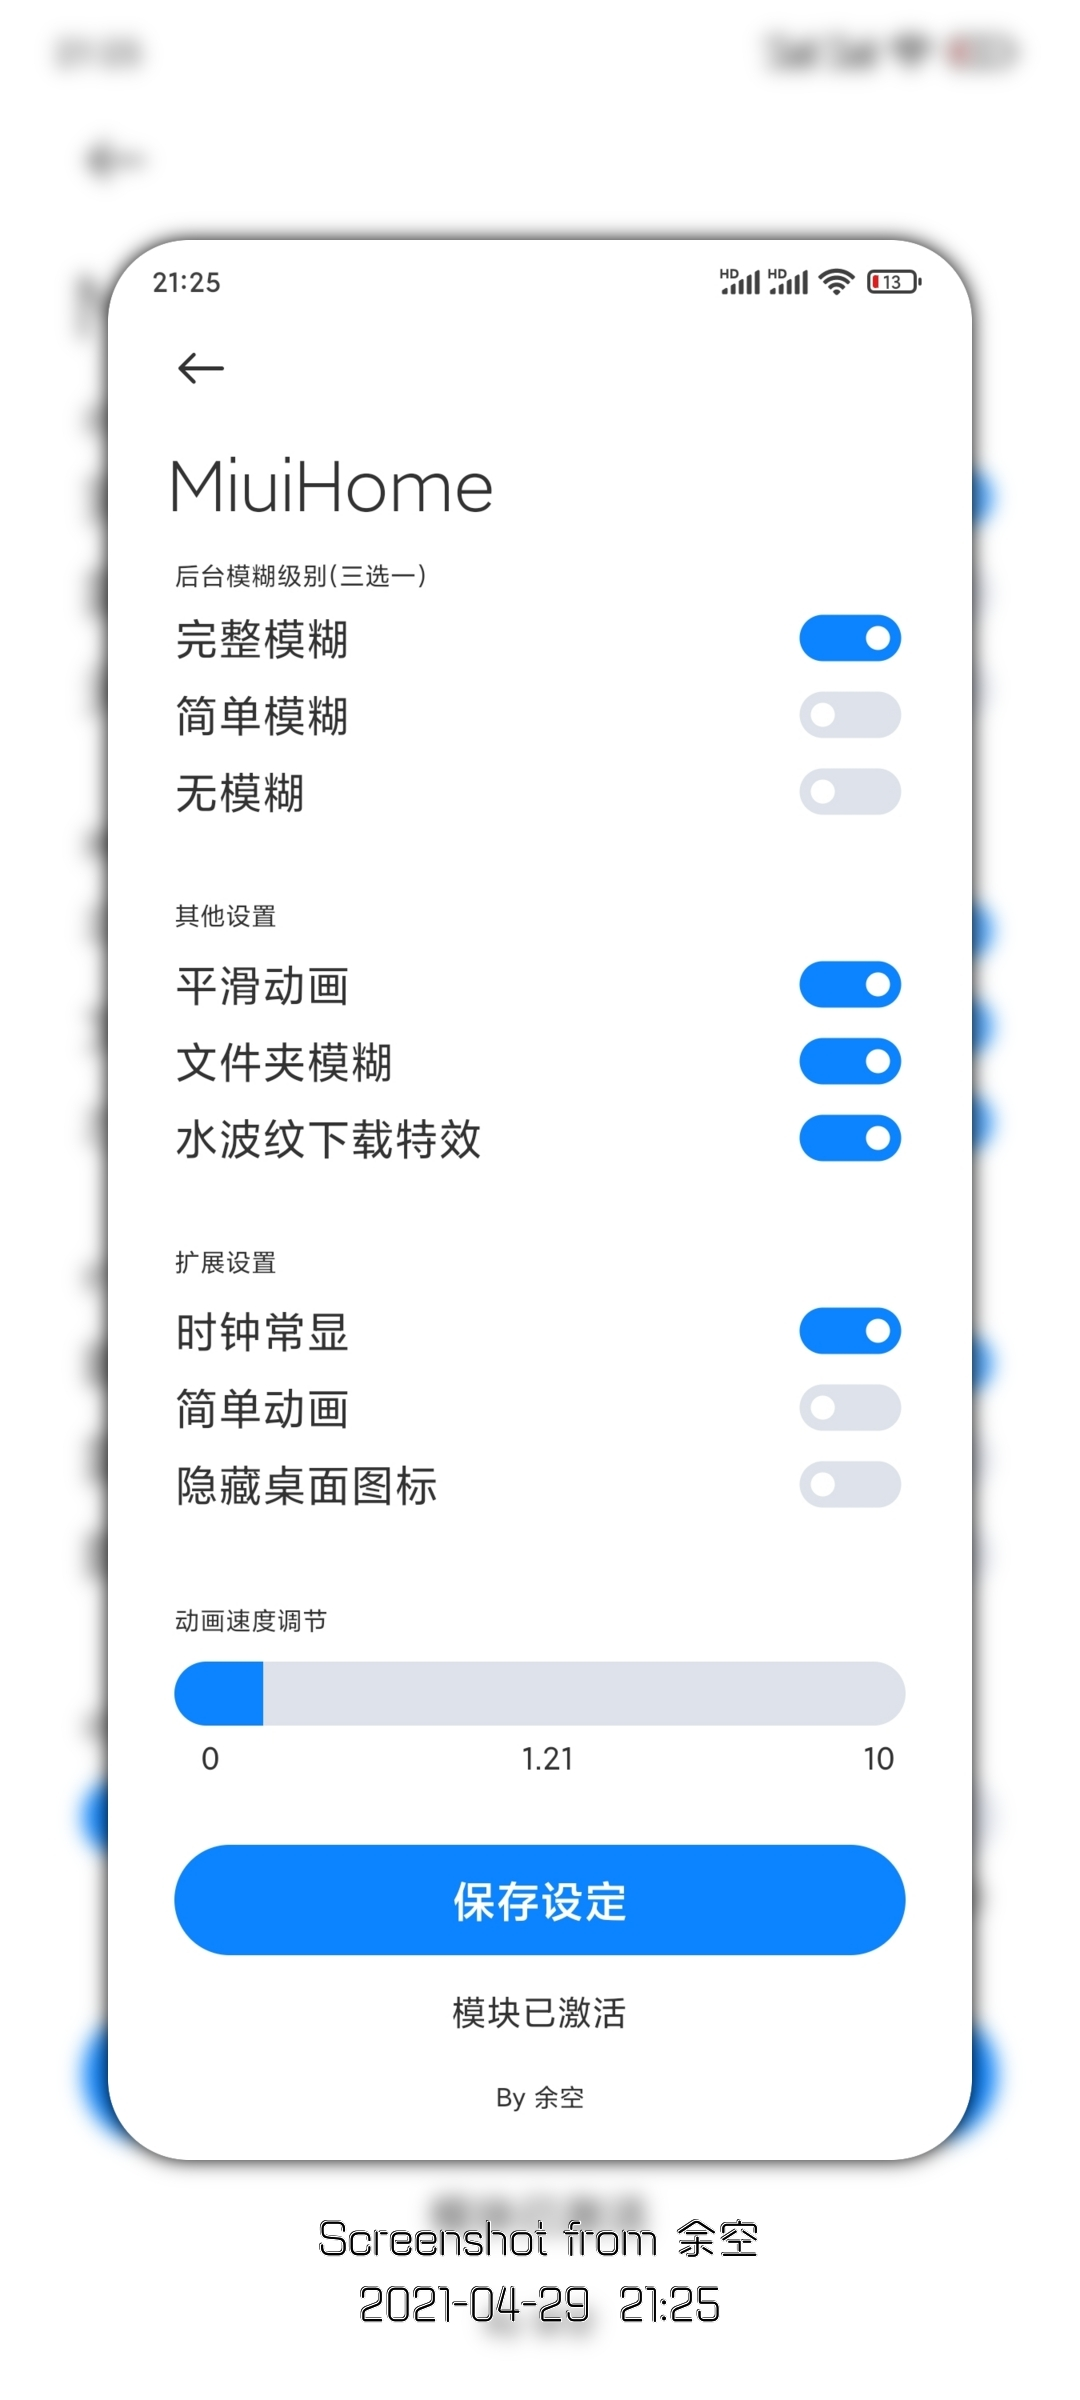
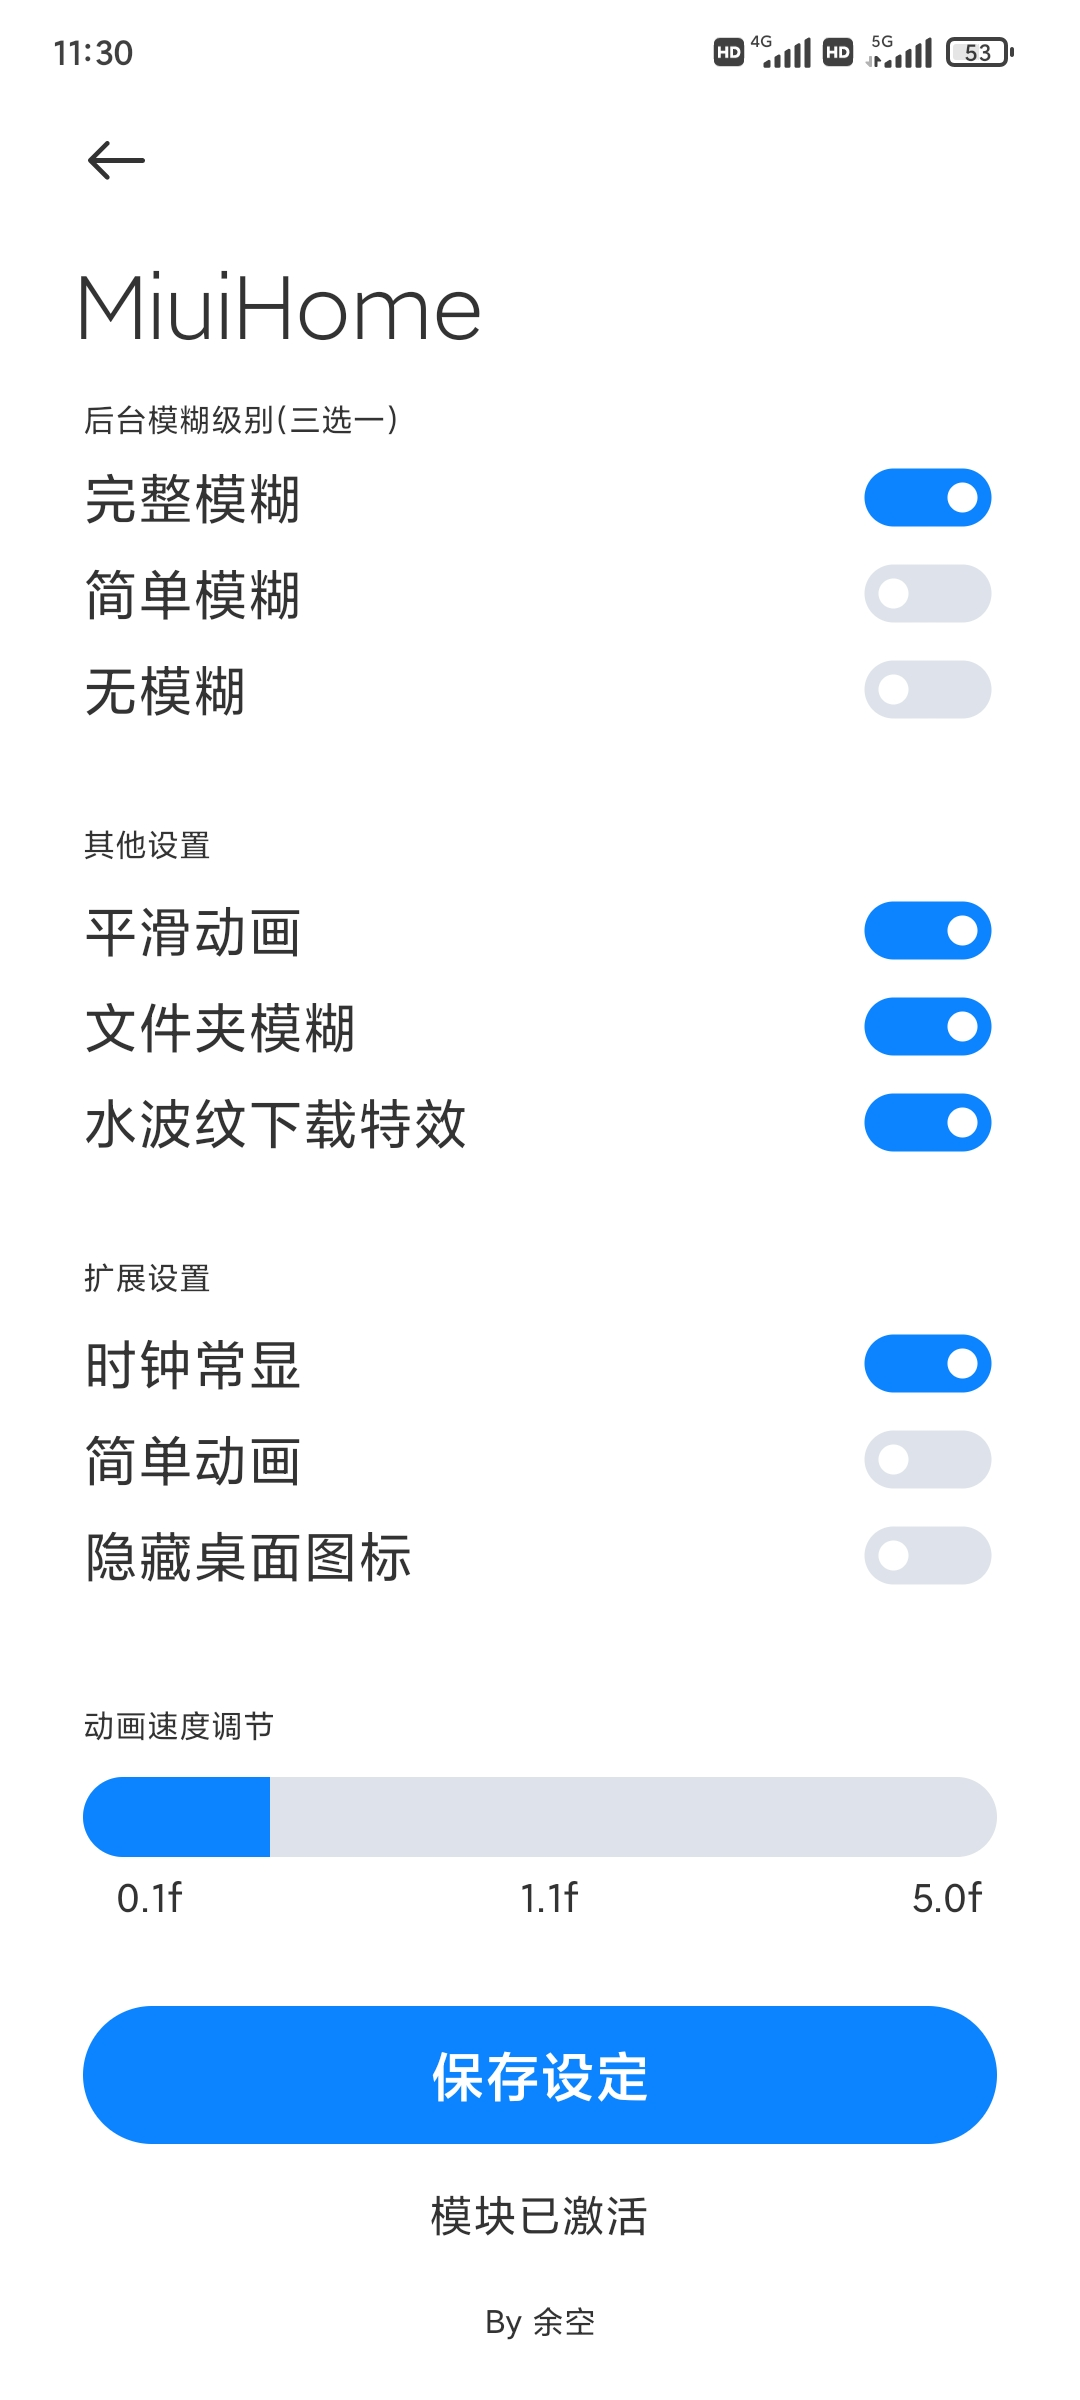
加了个”f“(

Changed region(s): [[0.0611, 0.0625, 0.9472, 1.0], [0.6417, 0.0, 0.9472, 0.0312], [0.0611, 0.0, 0.1222, 0.0312]]

diff --git a/app/src/main/java/com/yuk/miuihome/MainActivity.kt b/app/src/main/java/com/yuk/miuihome/MainActivity.kt
@@ -92,6 +92,7 @@ class MainActivity : Activity() {
         }
     }
 
+    @SuppressLint("SetTextI18n")
     private fun init() {
         val transitionSeekBar = findViewById<SeekBar>(R.id.transition_seekBar)
         val valueTextView = findViewById<TextView>(R.id.value_TextView)
@@ -108,10 +109,10 @@ class MainActivity : Activity() {
         val hideIcon = findViewById<Switch>(R.id.hide_icon)
 
         transitionSeekBar.progress = transition
-        valueTextView.text = (transition/100.0).toString()
+        valueTextView.text = (transition/100.0).toString() + "f"
         transitionSeekBar.setOnSeekBarChangeListener(object : SeekBar.OnSeekBarChangeListener {
             override fun onProgressChanged(p0: SeekBar?, p1: Int, p2: Boolean) {
-                valueTextView.text = (p1 / 100.0).toString()
+                valueTextView.text = (p1 / 100.0).toString() + "f"
             }
 
             override fun onStartTrackingTouch(p0: SeekBar?) {}
